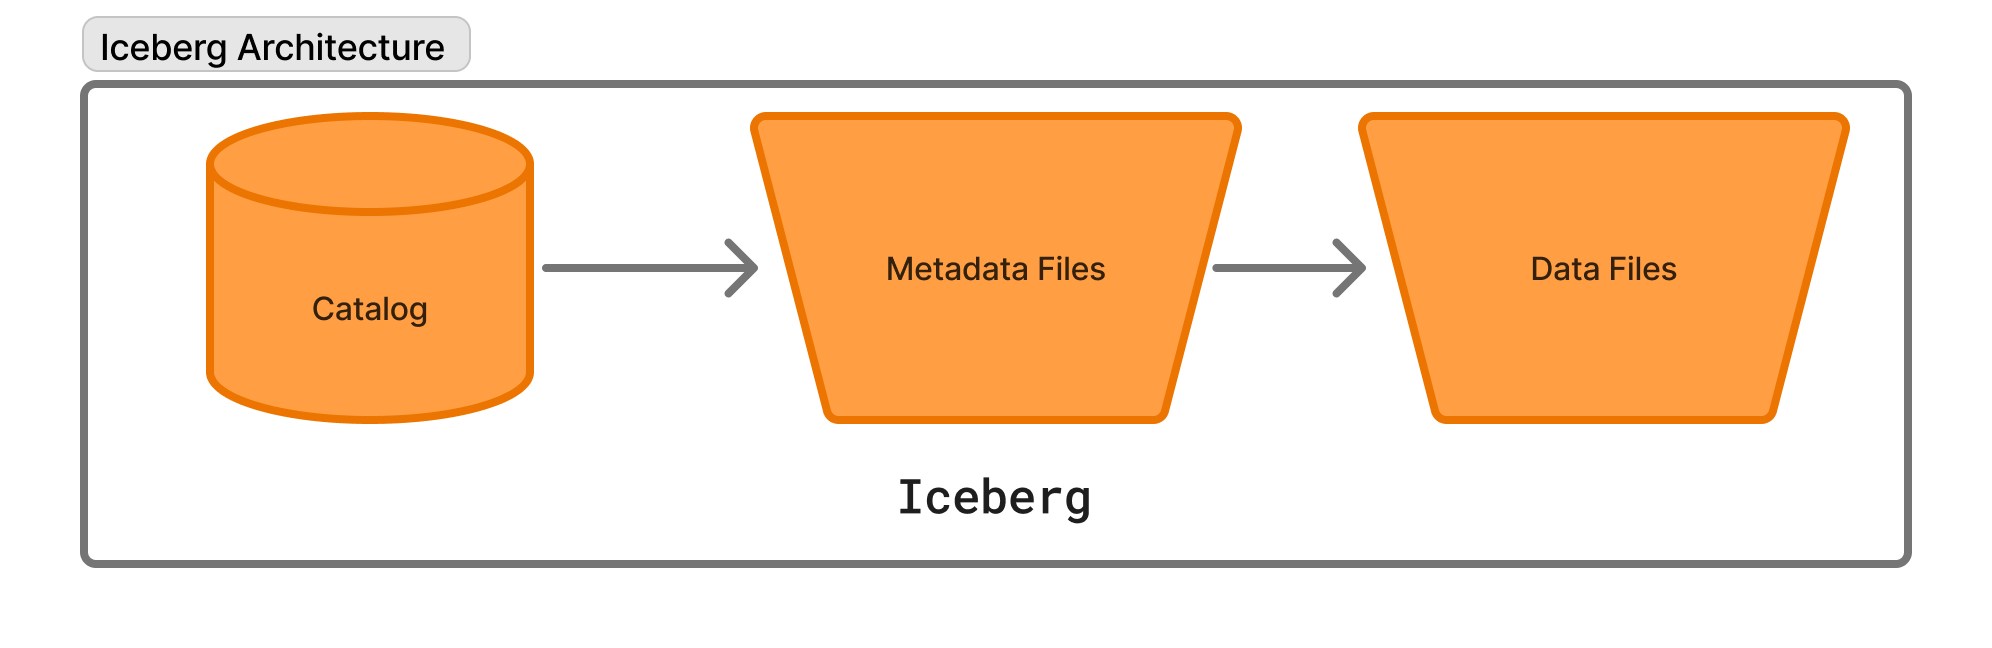
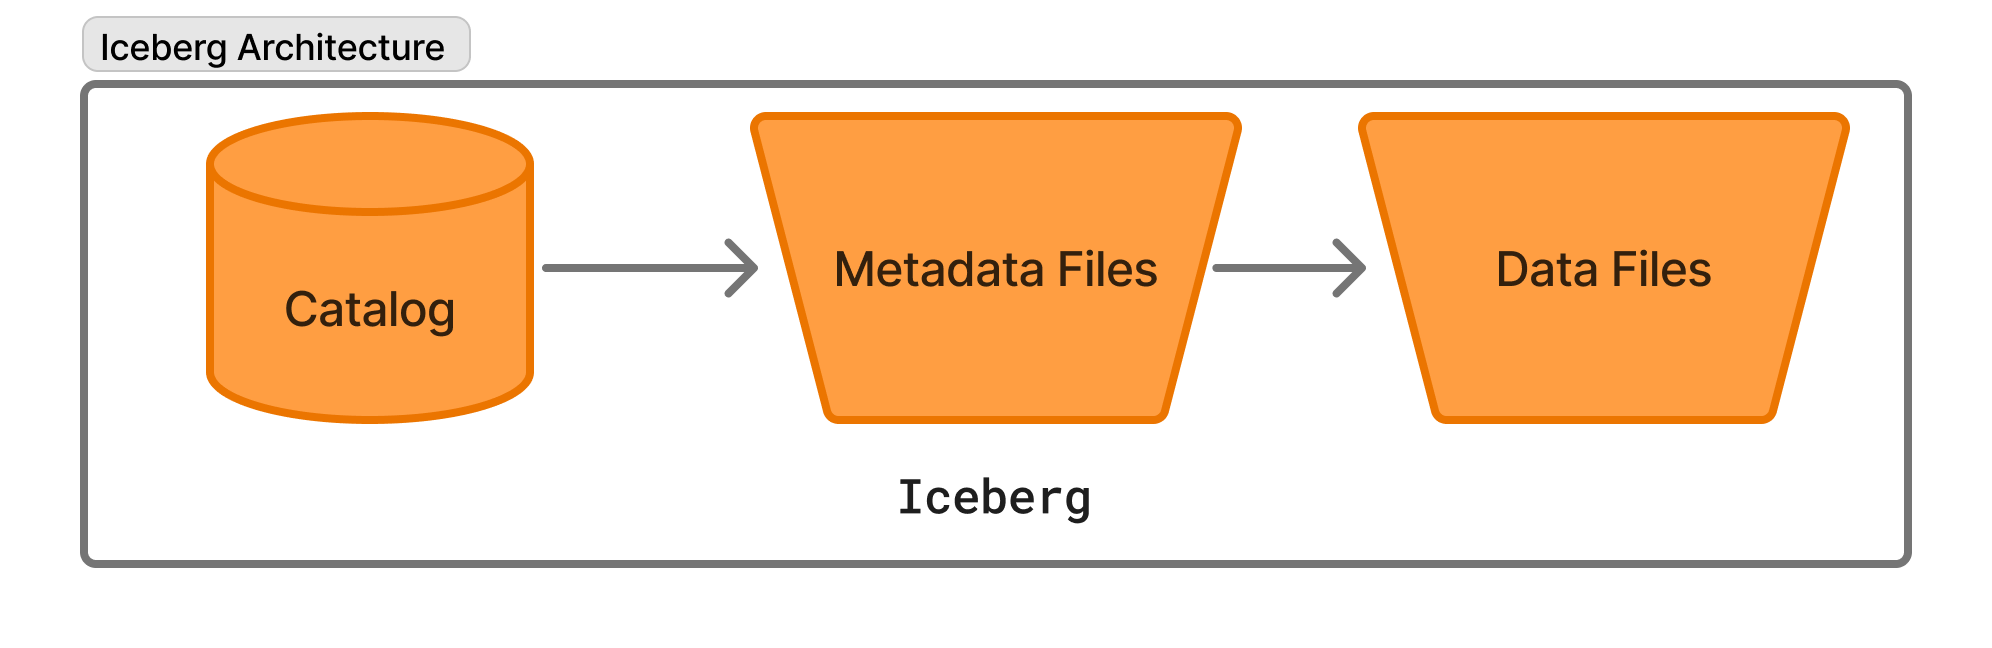
Some improvements

Changed region(s): [[0.4046, 0.3704, 0.5914, 0.463], [0.747, 0.3704, 0.8715, 0.463], [0.1245, 0.4321, 0.249, 0.5247]]

diff --git a/styles/mdx.css b/styles/mdx.css
@@ -37,3 +37,7 @@
 .subheading-anchor {
   @apply no-underline hover:underline;
 }
+
+.prose {
+  font-size: 19px;
+}
